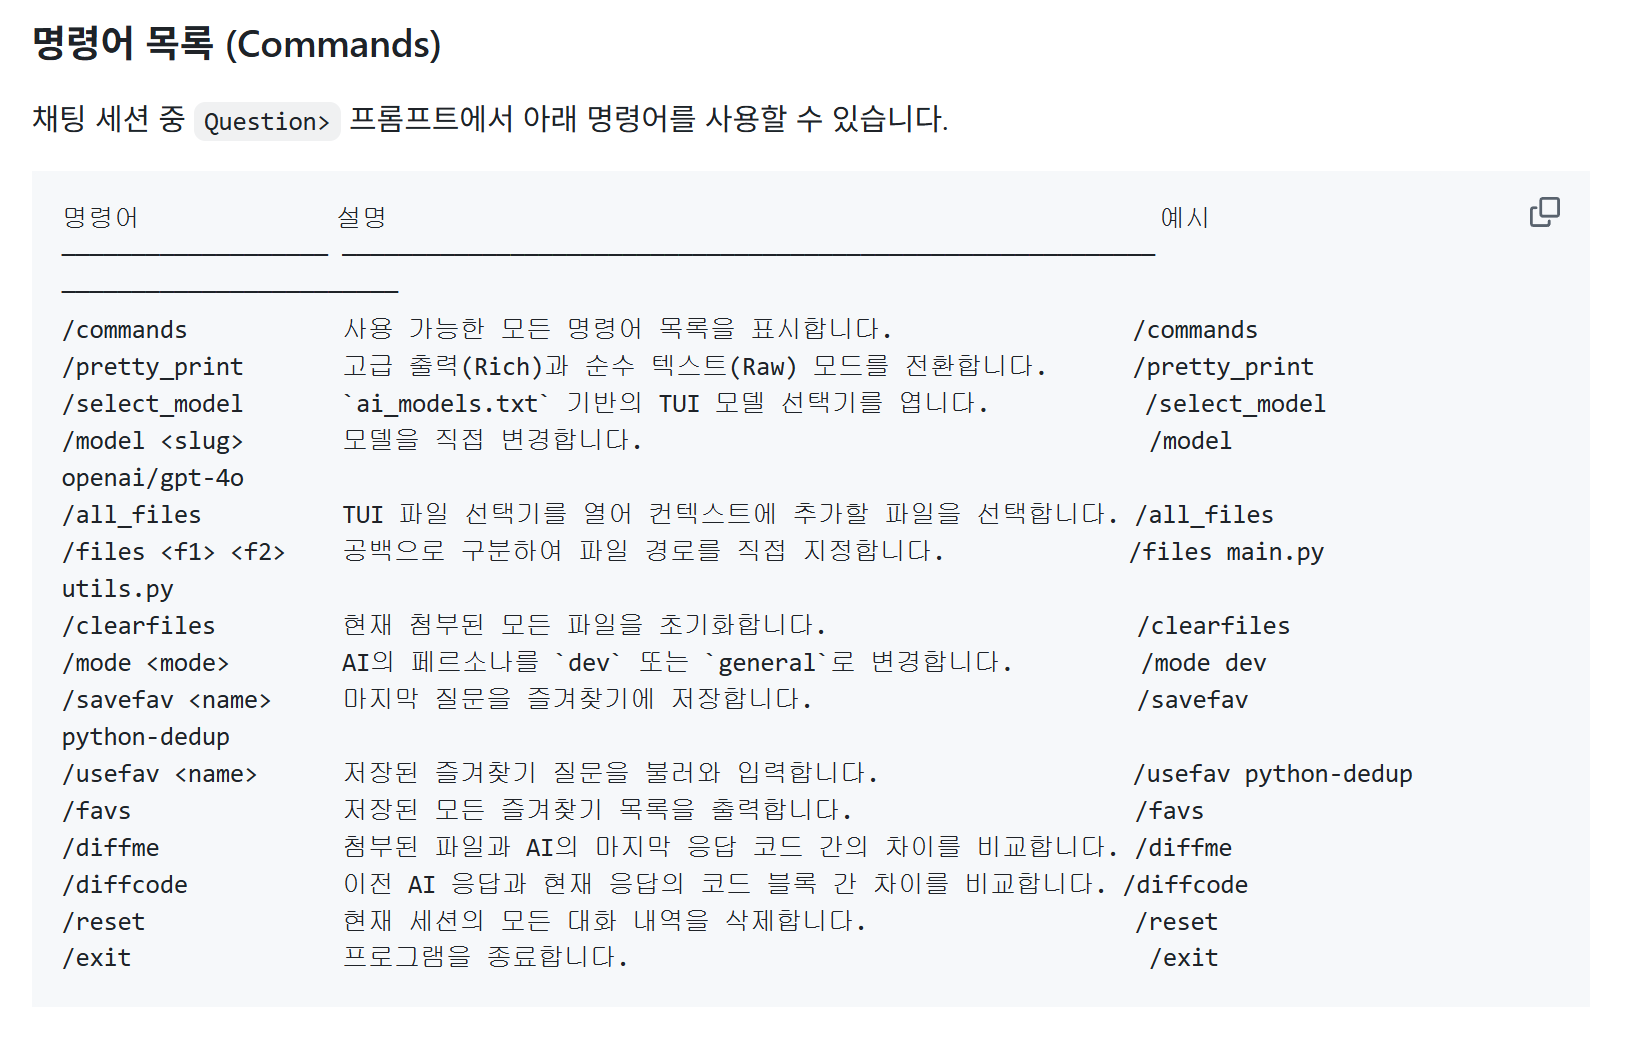
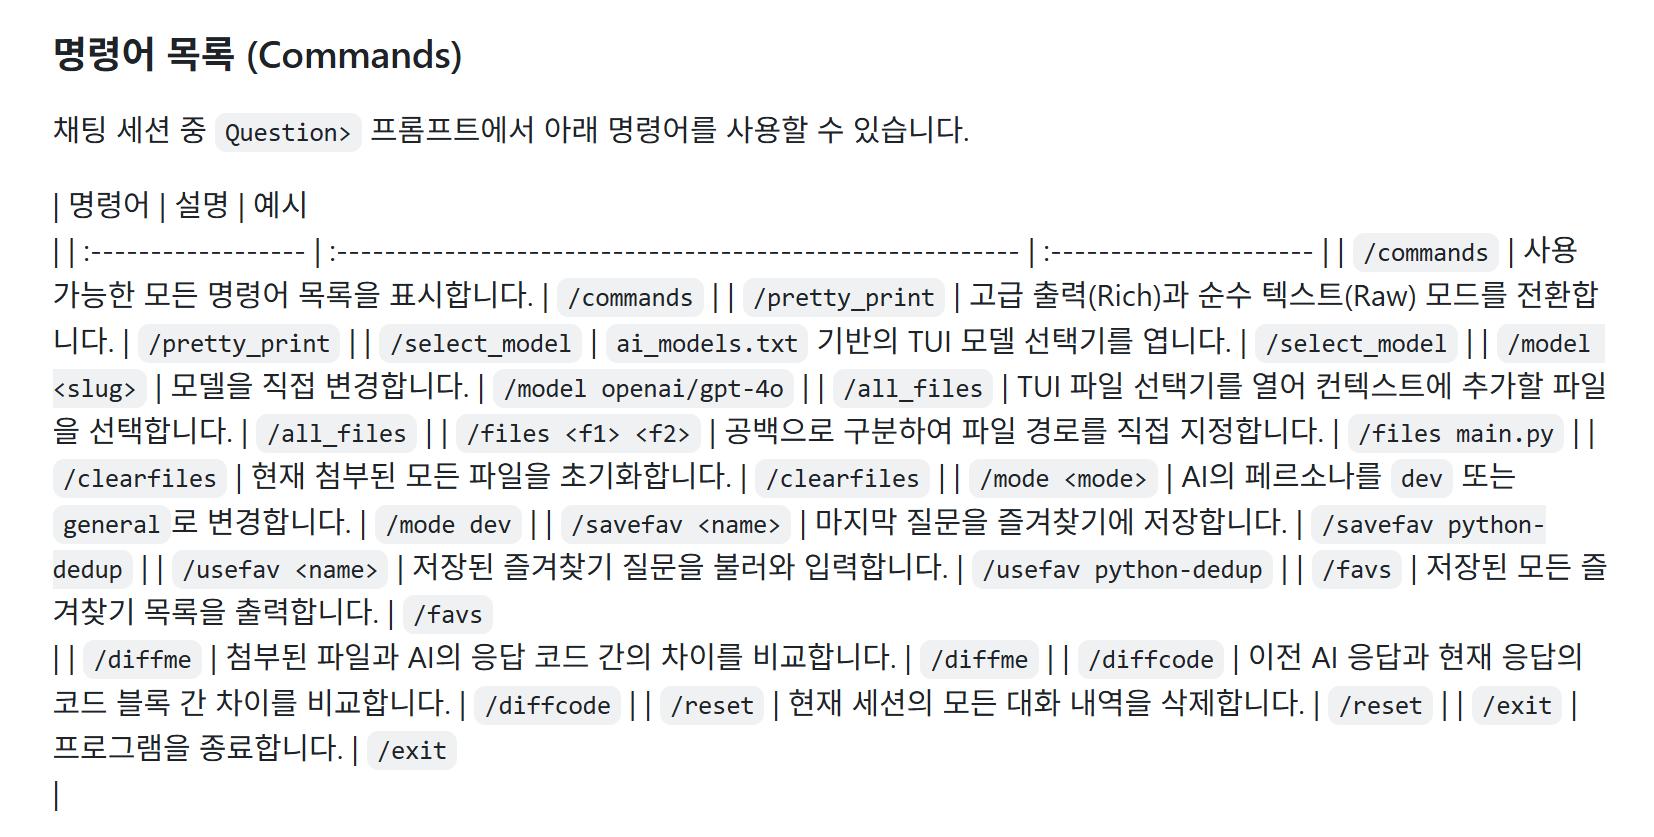
readme

Changed region(s): [[0.0, 0.0, 0.9688, 0.9319], [0.9375, 0.1864, 0.9688, 0.2174], [0.7188, 0.1864, 0.75, 0.2174]]

diff --git a/README.md b/README.md
@@ -153,33 +153,51 @@ python gptcli_o3.py "파이썬에서 리스트의 중복 요소를 제거하는 
 
 채팅 세션 중 `Question>` 프롬프트에서 아래 명령어를 사용할 수 있습니다.
 
-| 명령어              | 설명                                                       | 예시     
-|
-| :------------------ | :--------------------------------------------------------- | 
-:---------------------- |
-| `/commands`         | 사용 가능한 모든 명령어 목록을 표시합니다.                 | 
-`/commands`             |
-| `/pretty_print`     | 고급 출력(Rich)과 순수 텍스트(Raw) 모드를 전환합니다.      | `/pretty_print`         |
-| `/select_model`     | `ai_models.txt` 기반의 TUI 모델 선택기를 엽니다.           | 
-`/select_model`         |
-| `/model <slug>`     | 모델을 직접 변경합니다.                                    | `/model openai/gpt-4o`  |
-| `/all_files`        | TUI 파일 선택기를 열어 컨텍스트에 추가할 파일을 선택합니다. | 
-`/all_files`            |
-| `/files <f1> <f2>`  | 공백으로 구분하여 파일 경로를 직접 지정합니다.             | `/files main.py`        |
-| `/clearfiles`       | 현재 첨부된 모든 파일을 초기화합니다.                      | 
-`/clearfiles`           |
-| `/mode <mode>`      | AI의 페르소나를 `dev` 또는 `general`로 변경합니다.         | `/mode dev`             |
-| `/savefav <name>`   | 마지막 질문을 즐겨찾기에 저장합니다.                       | `/savefav
-python-dedup` |
-| `/usefav <name>`    | 저장된 즐겨찾기 질문을 불러와 입력합니다.                  | `/usefav python-dedup`  |
-| `/favs`             | 저장된 모든 즐겨찾기 목록을 출력합니다.                    | `/favs`  
-|
-| `/diffme`           | 첨부된 파일과 AI의 응답 코드 간의 차이를 비교합니다.       | `/diffme`               |
-| `/diffcode`         | 이전 AI 응답과 현재 응답의 코드 블록 간 차이를 비교합니다. | 
-`/diffcode`             |
-| `/reset`            | 현재 세션의 모든 대화 내역을 삭제합니다.                   | `/reset`                |
-| `/exit`             | 프로그램을 종료합니다.                                     | `/exit`  
-|
+*   **/commands**
+    *   **설명:** 사용 가능한 모든 명령어 목록을 표시합니다.
+    *   **예시:** `/commands`
+*   **/pretty_print**
+    *   **설명:** 고급 출력(Rich)과 순수 텍스트(Raw) 모드를 전환합니다.
+    *   **예시:** `/pretty_print`
+*   **/select_model**
+    *   **설명:** `ai_models.txt` 기반의 TUI 모델 선택기를 엽니다.
+    *   **예시:** `/select_model`
+*   **/model `<slug>`**
+    *   **설명:** 모델을 직접 변경합니다.
+    *   **예시:** `/model openai/gpt-4o`
+*   **/all_files**
+    *   **설명:** TUI 파일 선택기를 열어 컨텍스트에 추가할 파일을 선택합니다.
+    *   **예시:** `/all_files`
+*   **/files `<f1> <f2> ...`**
+    *   **설명:** 공백으로 구분하여 파일 경로를 직접 지정합니다.
+    *   **예시:** `/files main.py utils.py`
+*   **/clearfiles**
+    *   **설명:** 현재 첨부된 모든 파일을 초기화합니다.
+    *   **예시:** `/clearfiles`
+*   **/mode `<dev|general>`**
+    *   **설명:** AI의 페르소나를 `dev` 또는 `general`로 변경합니다.
+    *   **예시:** `/mode dev`
+*   **/savefav `<name>`**
+    *   **설명:** 마지막 질문을 즐겨찾기에 저장합니다.
+    *   **예시:** `/savefav python-dedup`
+*   **/usefav `<name>`**
+    *   **설명:** 저장된 즐겨찾기 질문을 불러와 입력합니다.
+    *   **예시:** `/usefav python-dedup`
+*   **/favs**
+    *   **설명:** 저장된 모든 즐겨찾기 목록을 출력합니다.
+    *   **예시:** `/favs`
+*   **/diffme**
+    *   **설명:** 첨부된 파일과 AI의 응답 코드 간의 차이를 비교합니다.
+    *   **예시:** `/diffme`
+*   **/diffcode**
+    *   **설명:** 이전 AI 응답과 현재 응답의 코드 블록 간 차이를 비교합니다.
+    *   **예시:** `/diffcode`
+*   **/reset**
+    *   **설명:** 현재 세션의 모든 대화 내역을 삭제합니다.
+    *   **예시:** `/reset`
+*   **/exit**
+    *   **설명:** 프로그램을 종료합니다.
+    *   **예시:** `/exit`
 
 ## 🔧 고급 기능 상세
 
